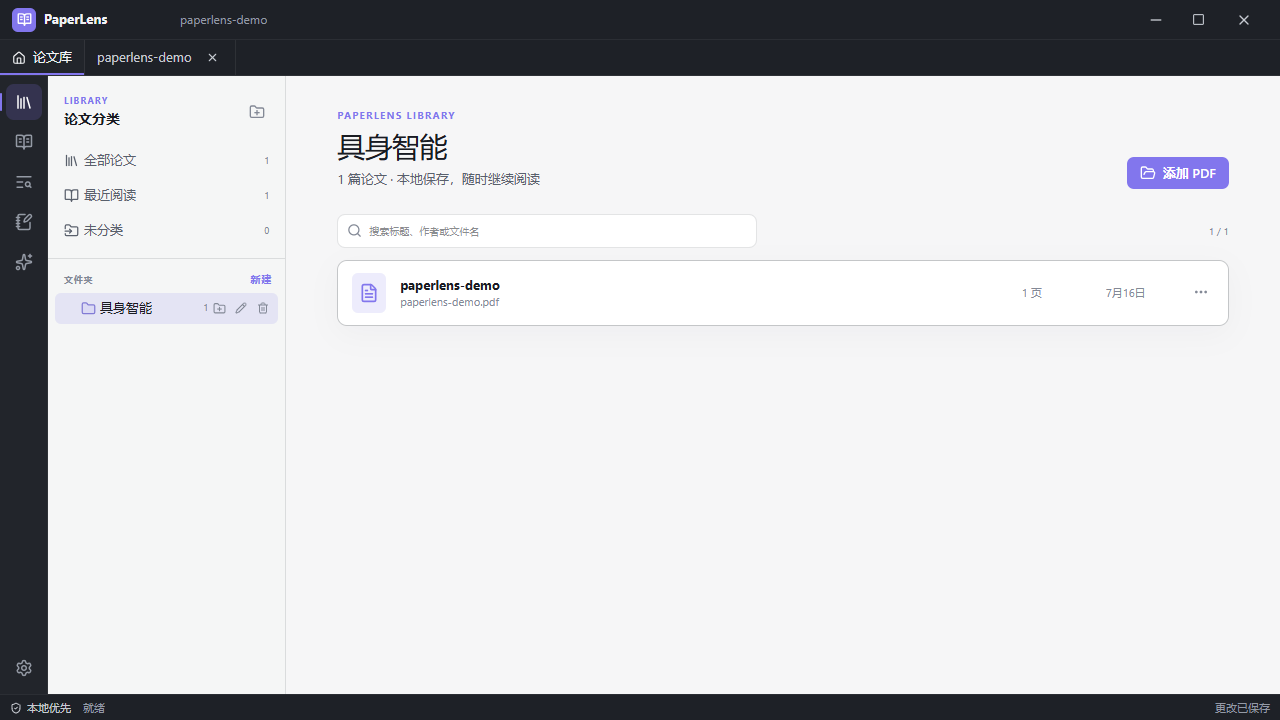
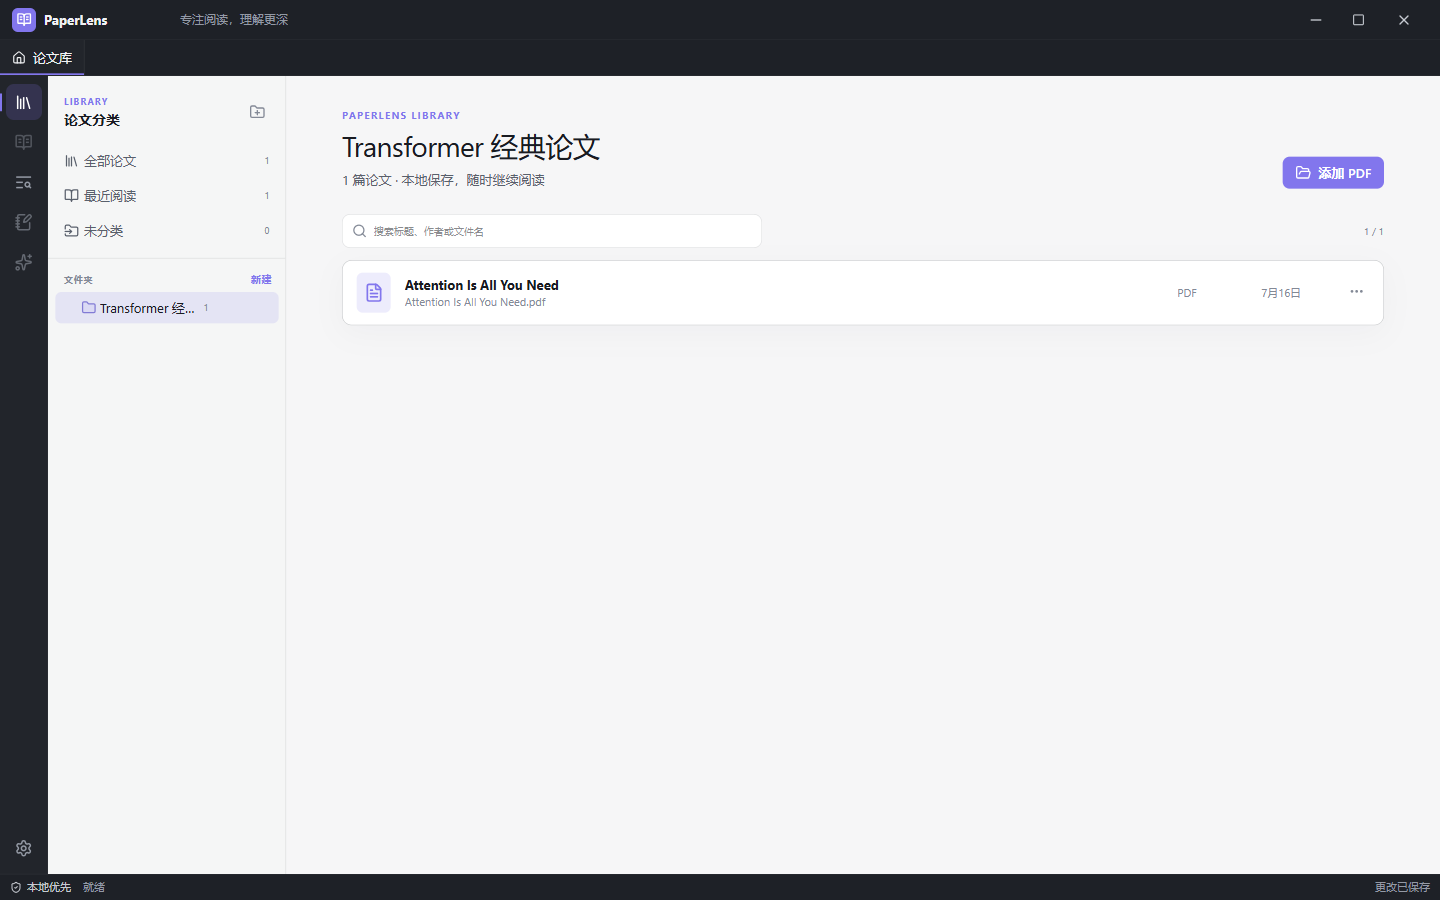
docs: standardize README screenshots on the Attention paper

diff --git a/tests/e2e/app.spec.ts b/tests/e2e/app.spec.ts
@@ -1,6 +1,4 @@
 import { expect, test } from "@playwright/test";
-import { mkdirSync } from "node:fs";
-import path from "node:path";
 
 function createDemoPdf(): Buffer {
   const text = [
@@ -125,22 +123,4 @@ test("opens and renders a real text-layer PDF", async ({ page }) => {
   await expect.poll(() => page.locator(".zoom-value").textContent()).not.toBe(zoomBefore);
   expect(pageErrors).toEqual([]);
 
-  if (process.env.PAPERLENS_CAPTURE === "1") {
-    const directory = path.resolve("docs/images");
-    mkdirSync(directory, { recursive: true });
-    await expect(page.locator(".toast")).toHaveCount(0, { timeout: 6_000 });
-    await page.screenshot({ path: path.join(directory, "paperlens-reader.png"), fullPage: true });
-
-    await page.locator(".document-tabs__home").click();
-    await page.getByRole("button", { name: "新建根文件夹" }).click();
-    await page.getByLabel("名称").fill("具身智能");
-    await page.getByRole("button", { name: "保存" }).click();
-    await page.getByRole("button", { name: "全部论文 1" }).click();
-    await page.locator(".paper-folder-menu summary").click();
-    await page.getByRole("checkbox", { name: "具身智能" }).check();
-    await page.locator(".paper-folder-menu summary").click();
-    await page.getByRole("button", { name: "具身智能 1" }).click();
-    await expect(page.locator(".toast")).toHaveCount(0, { timeout: 6_000 });
-    await page.screenshot({ path: path.join(directory, "paperlens-library.png"), fullPage: true });
-  }
 });